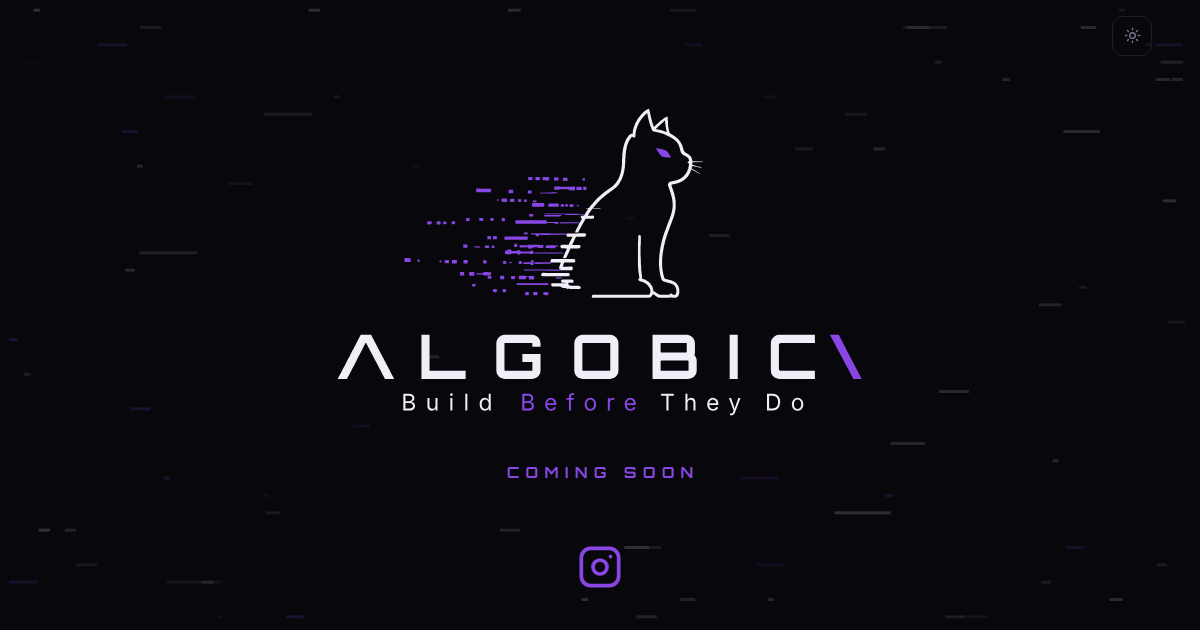
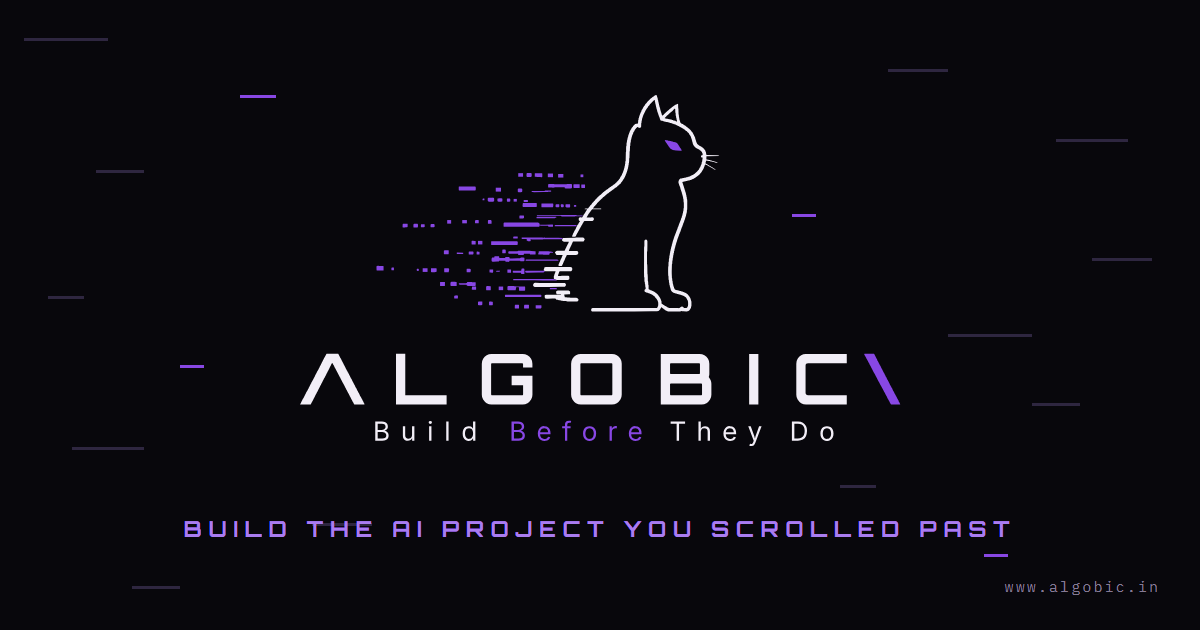
fix(seo): correct everything that still described a pre-launch site
The share cards said COMING SOON. Every link shared previewed a card
advertising a page that no longer exists, and both were screenshots of the old
splash, so they carried a theme toggle and an Instagram button as flat pixels.
Regenerated at 1200x630 from the real webfonts and mask assets, since satori
cannot render CSS masks and every piece of this brand's artwork is one.

llms.txt was worse, because it is written for machines that will repeat it. It
stated "Status: Pre-launch. A single coming-soon page is live", carried the
retired pre-D-007 employability positioning, and told crawlers to disregard
anything beyond it. Rewritten, and it now states the zero build count
explicitly so no answer engine infers shipped student work, and asks anyone
quoting the homepage figures to carry their confidence labels too.

sitemap.ts drops changeFrequency and priority. Verified 2026-07-30: Google
ignores both, because they are self-reported and every site claims 1.0. lastmod
is the only attribute it acts on, and only while it stays accurate.

robots.ts emitted "Host: https://www.algobic.in". The directive takes a host,
not a URL, so a scheme-prefixed value is discarded rather than honoured.

diff --git a/src/app/sitemap.ts b/src/app/sitemap.ts
@@ -3,11 +3,14 @@ import { SITE } from "@/lib/site";
 
 export default function sitemap(): MetadataRoute.Sitemap {
   return [
+    /* No `changeFrequency`, no `priority`. Verified 2026-07-30: Google ignores
+       both, because they are self-reported and every site claims 1.0. `lastmod`
+       is the only attribute it acts on, and only while it stays accurate, which
+       is why `SITE.updated` is bumped by hand on substantive change rather than
+       derived from the build. */
     {
       url: SITE.url,
       lastModified: SITE.updated,
-      changeFrequency: "weekly",
-      priority: 1,
     },
   ];
 }

diff --git a/src/app/robots.ts b/src/app/robots.ts
@@ -30,6 +30,8 @@ export default function robots(): MetadataRoute.Robots {
       },
     ],
     sitemap: `${SITE.url}/sitemap.xml`,
-    host: SITE.url,
+    /* Bare hostname. The Host directive takes a host, not a URL, and a
+       scheme-prefixed value is discarded rather than honoured. */
+    host: new URL(SITE.url).host,
   };
 }
